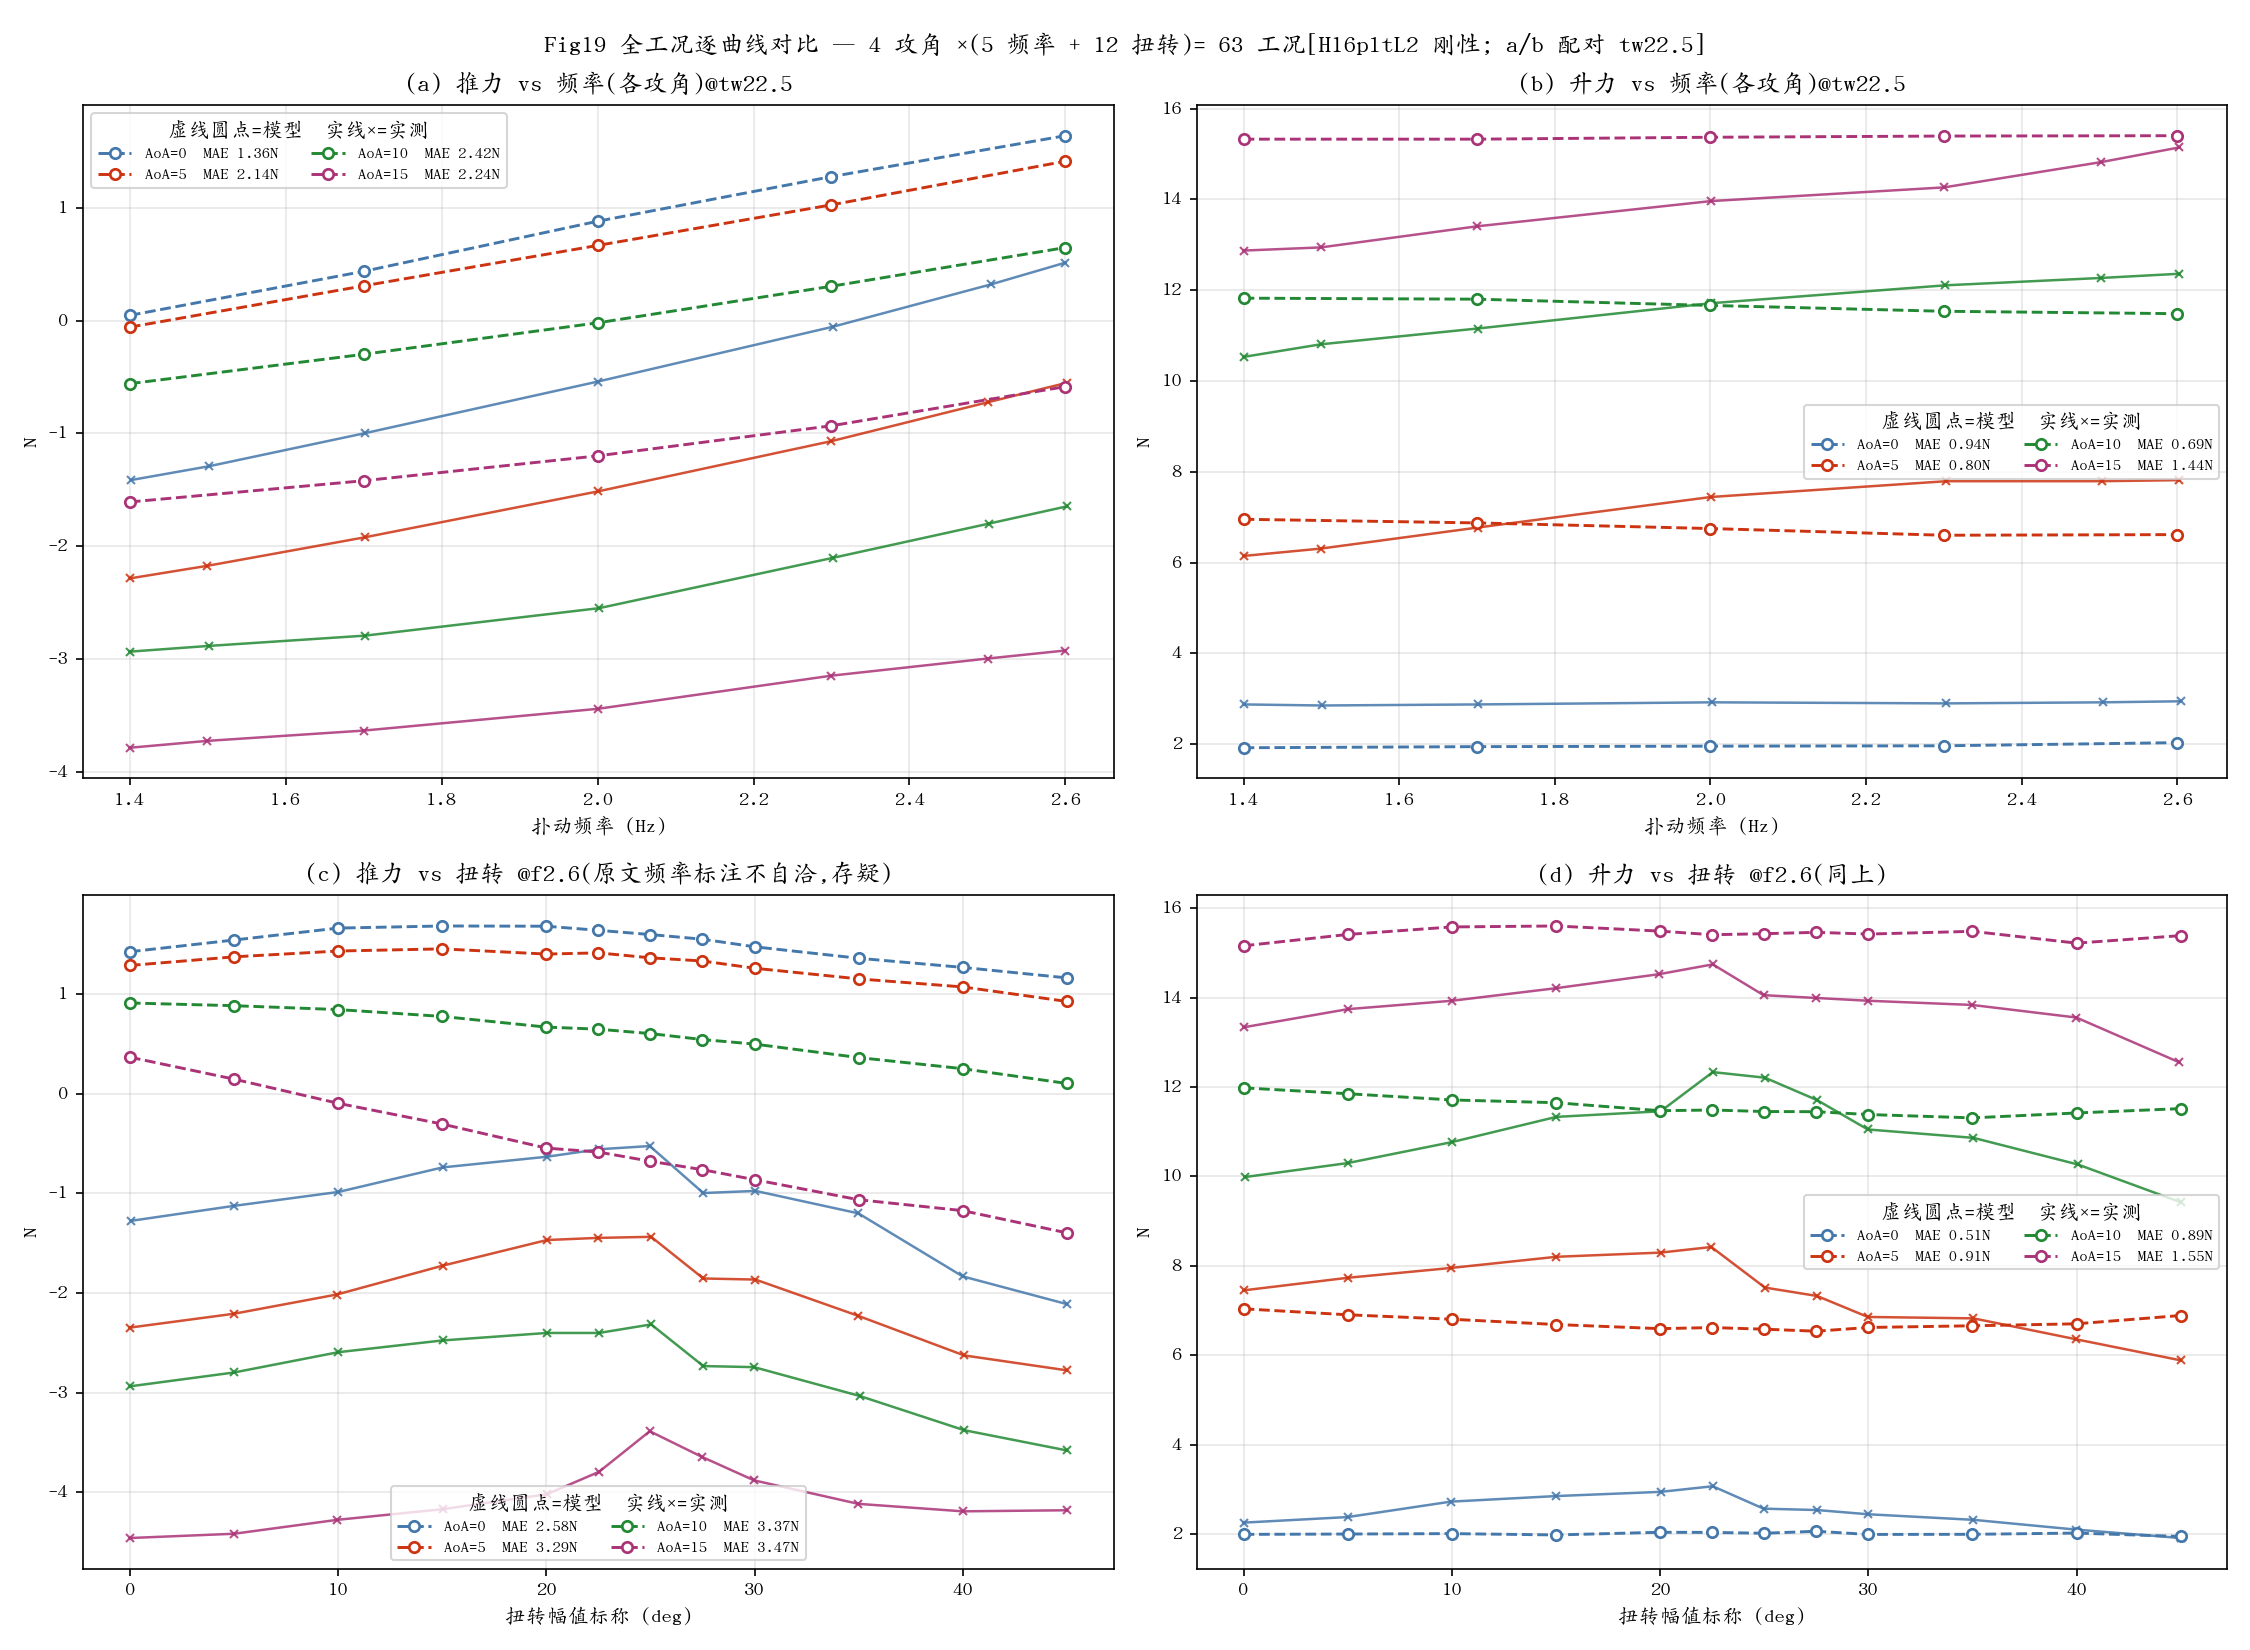
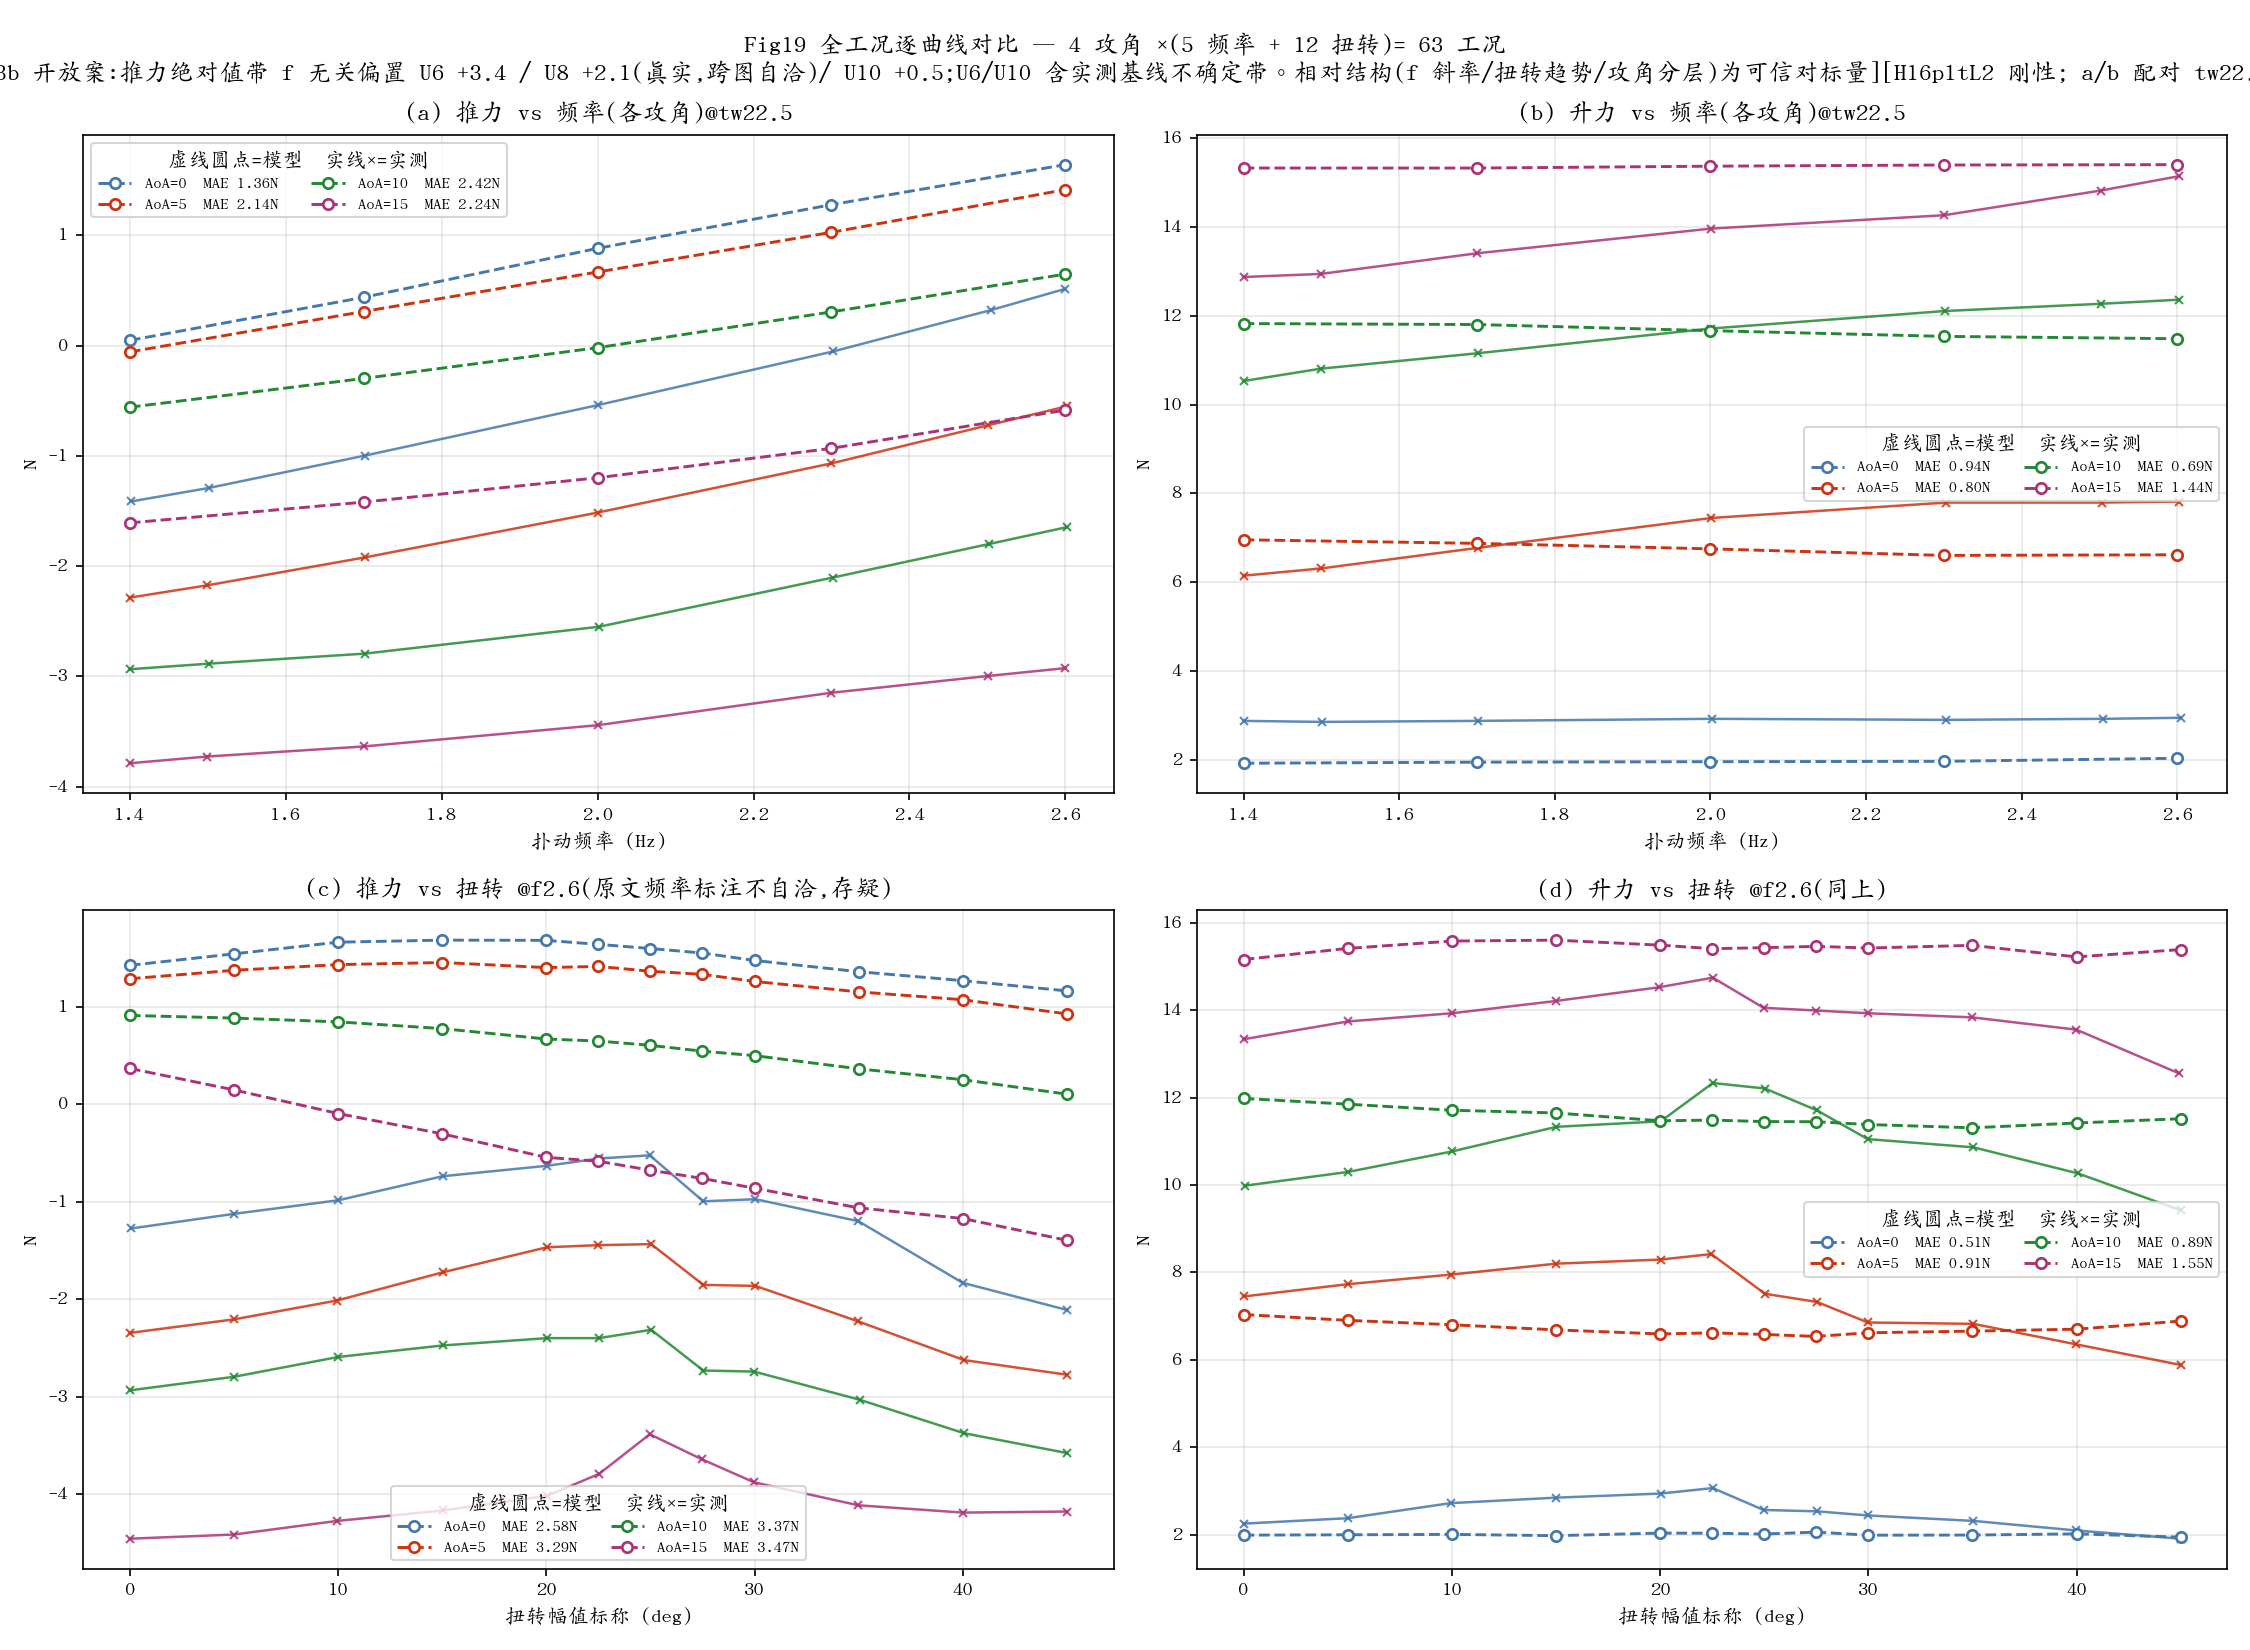
docs(figs): T3b uncertainty-band annotation in sweep figure captions

diff --git a/platform/p2_s6_fig_sweep.py b/platform/p2_s6_fig_sweep.py
@@ -67,7 +67,7 @@ def fig17():
         ax.grid(alpha=0.3)
         ax.set_title(ttl)
         ax.legend(fontsize=8, ncol=2, title="虚线圆点=模型  实线×=实测")
-    fig.suptitle("Fig17 全工况逐曲线对比 — U=8, AoA=5°(5 频率 × 12 扭转 = 60 工况)"
+    fig.suptitle("Fig17 全工况逐曲线对比 — U=8, AoA=5°(5 频率 × 12 扭转 = 60 工况)\n[T3b 开放案:推力绝对值带 f 无关偏置 U6 +3.4 / U8 +2.1(真实,跨图自洽)/ U10 +0.5;U6/U10 含实测基线不确定带。相对结构(f 斜率/扭转趋势/攻角分层)为可信对标量]"
                  "[H16pltL2 刚性, le/nc12, v2 运动学口径]")
     fig.tight_layout()
     fig.savefig(os.path.join(DOCS, "p2_s6_fig17_sweep.png"), dpi=150)
@@ -86,7 +86,7 @@ def fig18():
         ax.grid(alpha=0.3)
         ax.set_title(ttl)
         ax.legend(fontsize=8, title="虚线圆点=模型  实线×=实测")
-    fig.suptitle("Fig18 全工况逐曲线对比 — AoA=5°, tw=22.5(3 速度 × 5 频率 = 15 工况)"
+    fig.suptitle("Fig18 全工况逐曲线对比 — AoA=5°, tw=22.5(3 速度 × 5 频率 = 15 工况)\n[T3b 开放案:推力绝对值带 f 无关偏置 U6 +3.4 / U8 +2.1(真实,跨图自洽)/ U10 +0.5;U6/U10 含实测基线不确定带。相对结构(f 斜率/扭转趋势/攻角分层)为可信对标量]"
                  "[H16pltL2 刚性; 实测频率线条件=tw22.5, kinematics_audit]")
     fig.tight_layout()
     fig.savefig(os.path.join(DOCS, "p2_s6_fig18_sweep.png"), dpi=150)
@@ -118,7 +118,7 @@ def fig19():
         ax.grid(alpha=0.3)
         ax.set_title(ttl)
         ax.legend(fontsize=8, ncol=2, title="虚线圆点=模型  实线×=实测")
-    fig.suptitle("Fig19 全工况逐曲线对比 — 4 攻角 ×(5 频率 + 12 扭转)= 63 工况"
+    fig.suptitle("Fig19 全工况逐曲线对比 — 4 攻角 ×(5 频率 + 12 扭转)= 63 工况\n[T3b 开放案:推力绝对值带 f 无关偏置 U6 +3.4 / U8 +2.1(真实,跨图自洽)/ U10 +0.5;U6/U10 含实测基线不确定带。相对结构(f 斜率/扭转趋势/攻角分层)为可信对标量]"
                  "[H16pltL2 刚性; a/b 配对 tw22.5]")
     fig.tight_layout()
     fig.savefig(os.path.join(DOCS, "p2_s6_fig19_sweep.png"), dpi=150)
